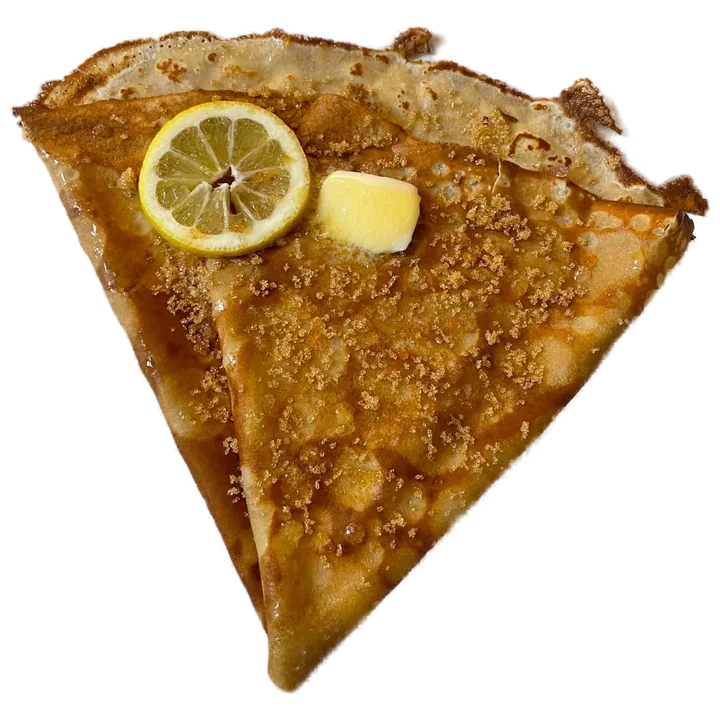
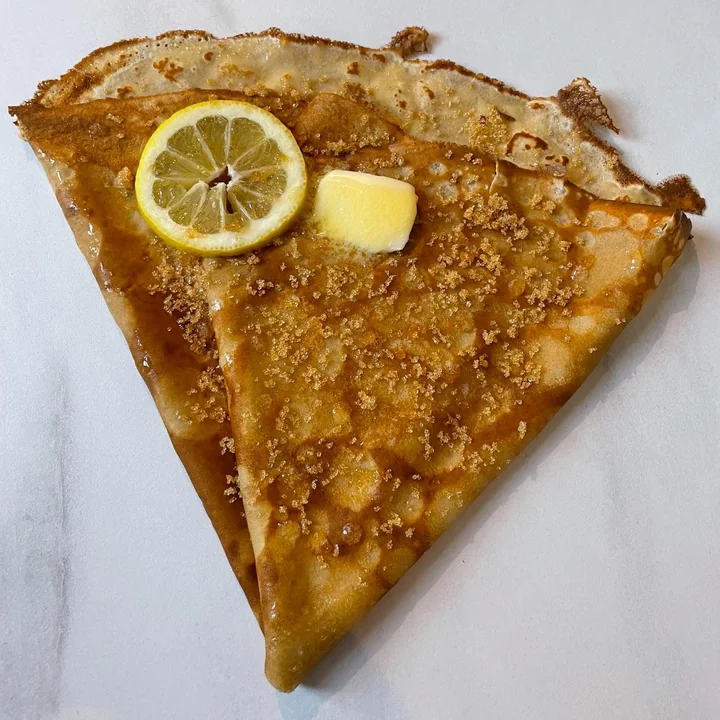
Gallery: the original photos as polaroids, drifting left to right (no cut-outs, no bobbing)
Square crops around the whole crêpe from the full originals, white polaroid frame.

Claude-Session: https://claude.ai/code/session_01NK75K1fwodaCCudZHbPAta

diff --git a/styles.css b/styles.css
@@ -248,7 +248,7 @@ section { scroll-margin-top: calc(var(--top-h) + 3px); }
 /* Scroll reveals: fade up, staggered with --i (JS adds .in when the element enters the viewport) */
 .js .reveal { opacity: 0; transform: translateY(22px); transition: opacity .7s ease, transform .8s cubic-bezier(.2, .7, .2, 1); transition-delay: calc(var(--i, 0) * 90ms); }
 .js .reveal.in { opacity: 1; transform: none; }
-@media (prefers-reduced-motion: reduce) { .js .reveal { opacity: 1; transform: none; transition: none; } .half, .half img, .spot, .btn { transition: none; } .ticker-track, .carousel-track, .carousel figure { animation: none; } }
+@media (prefers-reduced-motion: reduce) { .js .reveal { opacity: 1; transform: none; transition: none; } .half, .half img, .spot, .btn { transition: none; } .ticker-track, .carousel-track { animation: none; } }
 
 /* Cards: identical rounded cards, one action each, always bottom-left */
 .cards { display: grid; gap: 1.25rem; align-items: stretch; }
@@ -294,22 +294,21 @@ section { scroll-margin-top: calc(var(--top-h) + 3px); }
   .place-photo img, .place-map iframe { height: 420px; }
 }
 
-/* Carousel: the six crêpes (cut out, transparent) drift from left to right and bob a little, pause on
-   hover/touch, and loop seamlessly (JS duplicates the set once; the keyframe moves the track by one set). */
+/* Carousel: the six crêpe photos as polaroids, drifting from left to right; pauses on hover/touch and
+   loops seamlessly (JS duplicates the set once; the keyframe moves the track by exactly one set). */
 .gallery { background: var(--white); border-top: 3px solid var(--y-200); border-bottom: 3px solid var(--y-200); }
 .gallery-head { margin-bottom: 1.5rem; }
 .gallery-head h2 { margin-bottom: 0; }
-.carousel { overflow: hidden; padding: .75rem 0; -webkit-mask-image: linear-gradient(to right, transparent, #000 6%, #000 94%, transparent); mask-image: linear-gradient(to right, transparent, #000 6%, #000 94%, transparent); }
-.carousel-track { display: flex; gap: .9rem; width: max-content; animation: drift 40s linear infinite; }
+.carousel { overflow: hidden; padding: .75rem 0 1.25rem; -webkit-mask-image: linear-gradient(to right, transparent, #000 6%, #000 94%, transparent); mask-image: linear-gradient(to right, transparent, #000 6%, #000 94%, transparent); }
+.carousel-track { display: flex; gap: 1.1rem; width: max-content; animation: drift 40s linear infinite; }
 .carousel:hover .carousel-track, .carousel:focus-within .carousel-track, .carousel.paused .carousel-track { animation-play-state: paused; }
 @keyframes drift { from { transform: translateX(-50%); } to { transform: translateX(0); } }
-.carousel figure { margin: 0; flex: 0 0 auto; width: min(66vw, 300px); animation: bob 5.5s ease-in-out infinite; }
-.carousel figure:nth-child(3n+2) { animation-delay: -1.8s; }
-.carousel figure:nth-child(3n) { animation-delay: -3.7s; }
-@keyframes bob { 0%, 100% { transform: translateY(0); } 50% { transform: translateY(-10px); } }
-.carousel img { width: 100%; aspect-ratio: 1; object-fit: contain; filter: drop-shadow(0 14px 18px rgba(120, 48, 49, .18)); transition: transform 1s cubic-bezier(.2, .7, .2, 1); }
-.carousel figure:hover img { transform: scale(1.06); }
-@media (min-width: 720px) { .carousel figure { width: 320px; } .carousel-track { gap: 1.1rem; } }
+.carousel figure { /* the polaroid: white frame, thicker at the bottom */
+  margin: 0; flex: 0 0 auto; width: min(66vw, 280px); padding: 12px 12px 44px; background: var(--white);
+  border-radius: 3px; box-shadow: 0 1px 2px rgba(0, 0, 0, .12), 0 12px 28px rgba(120, 48, 49, .16);
+}
+.carousel img { width: 100%; aspect-ratio: 1; object-fit: cover; border-radius: 2px; }
+@media (min-width: 720px) { .carousel figure { width: 300px; } .carousel-track { gap: 1.4rem; } }
 
 /* About: the oval portrait takes the whole first column */
 .about-grid { display: grid; gap: 2rem; align-items: center; }

diff --git a/index.html b/index.html
@@ -249,7 +249,7 @@
     </div>
   </section>
 
-  <!-- Gallery: the crêpes cut out of their photos, floating left to right. Pauses on hover/touch. -->
+  <!-- Gallery: the crêpe photos as polaroids, drifting left to right. Pauses on hover/touch. -->
   <section class="gallery" id="galerij">
     <div class="wrap gallery-head">
       <p class="kicker reveal" data-i18n="gallery.kicker">Van de bakplaat</p>
@@ -257,12 +257,12 @@
     </div>
     <div class="carousel" id="carousel">
       <div class="carousel-track">
-        <figure><img src="/images/crepe-full-sugar.webp" width="720" height="720" alt="Crêpe met poedersuiker" decoding="async"></figure>
-        <figure><img src="/images/crepe-full-stroop.webp" width="720" height="720" alt="Crêpe met stroop" decoding="async"></figure>
-        <figure><img src="/images/crepe-full-og.webp" width="720" height="720" alt="Crêpe met citroen, boter en bruine suiker" decoding="async"></figure>
-        <figure><img src="/images/crepe-full-honey.webp" width="720" height="720" alt="Crêpe met honing" decoding="async"></figure>
-        <figure><img src="/images/crepe-full-applepie.webp" width="720" height="720" alt="Crêpe met appel en kaneel" decoding="async"></figure>
-        <figure><img src="/images/crepe-full-nutella.webp" width="720" height="720" alt="Crêpe met Nutella" decoding="async"></figure>
+        <figure><img src="/images/crepe-polaroid-sugar.webp" width="720" height="720" alt="Crêpe met poedersuiker" decoding="async"></figure>
+        <figure><img src="/images/crepe-polaroid-stroop.webp" width="720" height="720" alt="Crêpe met stroop" decoding="async"></figure>
+        <figure><img src="/images/crepe-polaroid-og.webp" width="720" height="720" alt="Crêpe met citroen, boter en bruine suiker" decoding="async"></figure>
+        <figure><img src="/images/crepe-polaroid-honey.webp" width="720" height="720" alt="Crêpe met honing" decoding="async"></figure>
+        <figure><img src="/images/crepe-polaroid-applepie.webp" width="720" height="720" alt="Crêpe met appel en kaneel" decoding="async"></figure>
+        <figure><img src="/images/crepe-polaroid-nutella.webp" width="720" height="720" alt="Crêpe met Nutella" decoding="async"></figure>
       </div>
     </div>
   </section>

diff --git a/build.js b/build.js
@@ -56,9 +56,9 @@ async function main() {
   await sharp(banner).extract({ left: 310, top: 0, width: 480, height: 500 }).webp({ quality: 84 }).toFile(path.join(IMG, 'street.webp')); // Simon at the griddle, crowd
   // The wagon at Fabriek 59 (Simon's photo, sent by Harold). Replace assets/wagon.webp with a larger original when there is one.
   await fs.copyFile('assets/wagon.webp', path.join(IMG, 'wagon.webp'));
-  // The six crêpes, whole, cut out of the original photos (transparent webp). Rename when they change: images are cached for a year
+  // The six crêpe photos, square around the whole crêpe (from the originals). Rename when they change: images are cached for a year
   for (const f of await fs.readdir('photos')) {
-    if (f.endsWith('.webp')) await fs.copyFile(path.join('photos', f), path.join(IMG, 'crepe-full-' + f));
+    if (f.endsWith('.webp')) await fs.copyFile(path.join('photos', f), path.join(IMG, 'crepe-polaroid-' + f));
   }
 
   // Social share image: butter background, logo, oval portrait (matches the site's frames)
